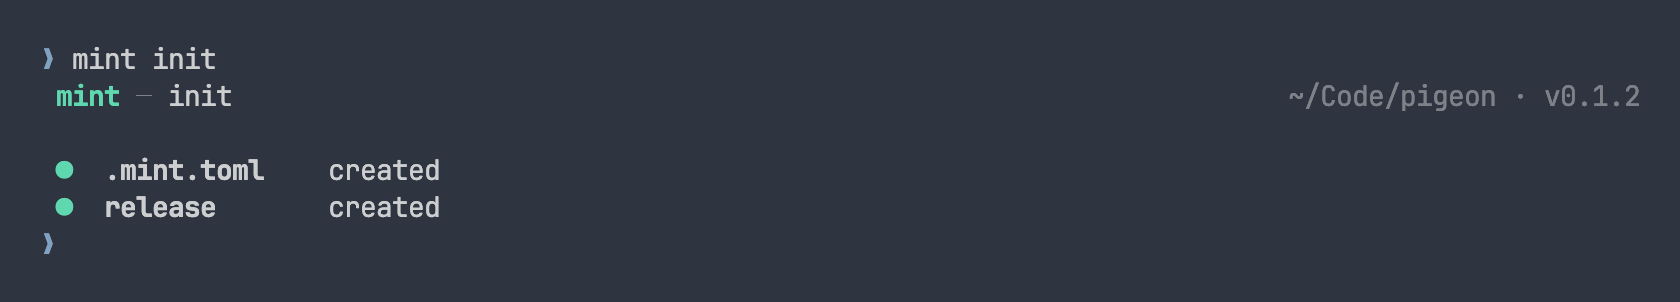
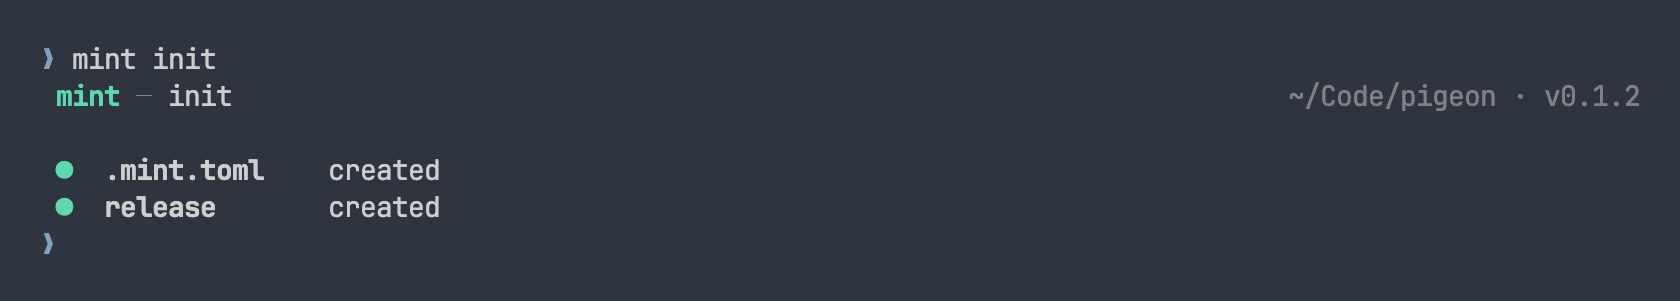
docs(demo): crop each still to what it drew
A still's screen is as tall as its run's tallest moment, so its last
frame could end in empty rows, ten of them under commit's prompt.
finalize.sh now finds the first and last rows holding a pixel unlike the
margin's, reading every pixel, and cuts below the last, leaving under it
the margin above the first. cropdetect averages a row, so it misses the
few pixels a row of the prompt holds. Clips keep their full height.

diff --git a/demo/README.md b/demo/README.md
@@ -26,11 +26,12 @@ demo/record.sh tour commit   # the tapes named
 | `init` | `init.webp`, a still: `mint init` in an empty repo |
 
 The art goes to `art/` at the repository's root, where the README takes it from, so `git diff`
-shows what a recording changed and the art is committed with the change it shows. `look.tape` holds the settings every tape sources; each tape
-sets the height its run needs. Each tape ends on a `Wait+Screen` for a line only its run's real
-flow prints, so a shim answering wrongly, or mint failing early, fails the recording rather than
-leaving a still that looks right. Those lines are mint's own words: a change to the output
-changes them too.
+shows what a recording changed and the art is committed with the change it shows. `look.tape`
+holds the settings every tape sources; each tape sets the height its run needs at its tallest,
+and a still is cropped to what its last frame drew. Each tape ends on a `Wait+Screen` for a line
+only its run's real flow prints, so a shim answering wrongly, or mint failing early, fails the
+recording rather than leaving a still that looks right. Those lines are mint's own words: a
+change to the output changes them too.
 
 ## The world
 
@@ -119,6 +120,10 @@ The shell reports `COLORTERM=truecolor`, as Ghostty and iTerm do.
 - **The art.** For a clip, an animated WebP, which GitHub shows inline, at the frames' 30 a second,
   and an H.264 MP4 of the same frames; for a still, a lossless WebP of the last frame. Each frame
   is set in a margin of the theme's background.
+- **The crop.** A still's screen is as tall as its run's tallest moment, such as `commit`'s
+  message at its question, so its last frame can end in empty rows. `finalize.sh` finds the
+  first and last rows holding a pixel unlike the margin's, reading every pixel, and cuts below
+  the last, leaving under it the margin above the first. Clips keep their full height.
 
 `demo/out/`, the world and the frames, is remade each time and never committed.
 
